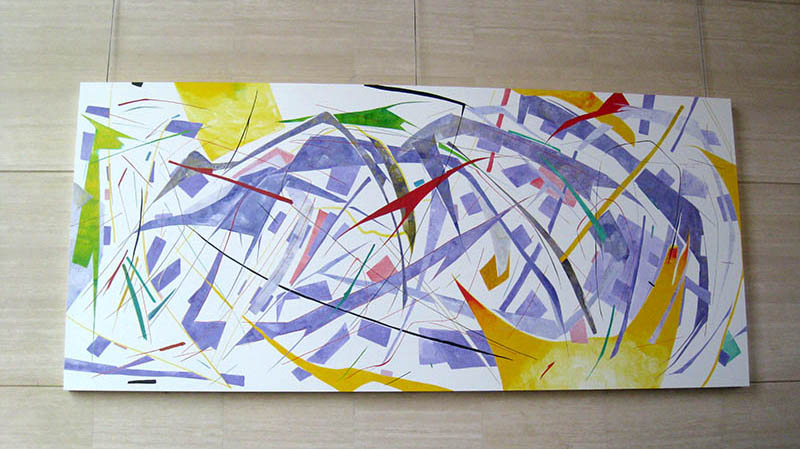
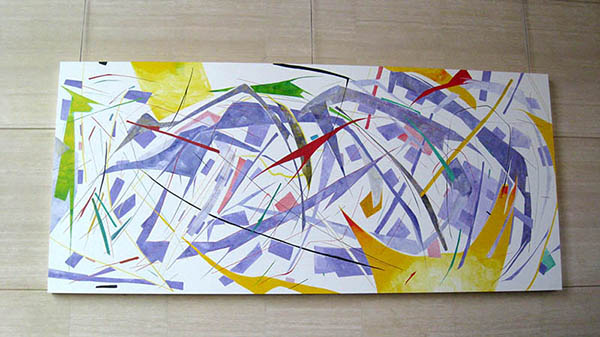
Milestone_completed view-button toggle view

diff --git a/js/main.js b/js/main.js
@@ -2,7 +2,7 @@
 $('.dropdown-work').mouseenter(function(){
 	$('.slidedown').slideToggle('300');
 });
-$('.dropdown-work').mouseleave(function(){
+$('.slidedown').mouseleave(function(){
 	$('.slidedown').slideToggle('200');
 });
 
@@ -19,15 +19,6 @@ function homeClicked() {
 
 //Snap to each pages
 var FAST_SCROLL = 600
-
-//$('.work-selection li').click(slideDownWorkClicked);
-//function slideDownWorkClicked() {
-//	event.preventDefault();
-//	console.log('slideDownWorkClicked');
-//	var targetId = $(this).data('target-id');
-//	var targetY = $(targetId).offset().top;
-//	$('body').animate({scrollTop: targetY}, FAST_SCROLL);
-//}
 
 //snap to Sixty-six Days from top nav menu//
 $('#sixtysix').click(sixtysixClicked);
@@ -75,17 +66,24 @@ function viewButtonClicked () {
 	event.preventDefault();
 	console.log('viewButtonClicked this:' + $(this).data('target-id'));
 	var targetId = $(this).data('target-id');
+	var targetDiv = $(this).closest('.container')
 	$(this).hide();  //Hide the button that was just clicked
-	$('.view-toggle').slideUp('fast');  //Slide all the other .view-toggles up
+//	$('.view-toggle').slideUp('fast');  //Slide all the other .view-toggles up
+	$(targetDiv).siblings('.container').hide();
 	$(targetId).slideDown('fast');  //Slide the current target id down.
-	$('#first-dot').trigger('click')
+	$('#first-dot').trigger('click');
+	$('body').animate({scrollTop: 0}, 600);
+	return false;
 }
 
 $('.close-mark').click(closeMarkClicked);
 function closeMarkClicked () {
 	event.preventDefault();
+	var targetDiv = $(this).closest('.container')
 	$('.view-toggle').slideUp('fast');
 	$('.view-button').show();
+	var targetDiv = $(this).closest('.container')
+	$(targetDiv).siblings('.container').show();
 	var targetId = $(this).closest('.container')
 	var targetY = $(targetId).offset().top;
 	$('body').animate({scrollTop: targetY}, 900); 

diff --git a/index.html b/index.html
@@ -12,7 +12,7 @@
 	<div class="landing-page container">
 		<h1 class="slogan">Some Brave Dreams</h1>
 		<nav class="top-nav">
-			<a href="waselrosa.html"><img id="logo" src="img/LOGO-IN-WHITE.png"></a>
+			<a href="index.html"><img id="logo" src="img/LOGO-IN-WHITE.png"></a>
 			<ul>
 				<li class="dropdown-work"><a href="#work-drop">work</a></li>
 				<li id="mystory"><a href="#">my story</a></li>
@@ -56,7 +56,7 @@
 					<a id="first-dot" data-target-src-a="img/painting01.jpg" data-target-src-b="img/painting01b.jpg" href="#"><i class="fa fa-circle-o"></i></a>
 					<a data-target-src-a="img/painting02a.jpg" data-target-src-b="img/painting02b.jpg" href="#"><i class="fa fa-circle-o"></i></a>
 					<a data-target-src-a="img/painting03b.jpg" data-target-src-b="img/painting03d.jpg" href="#"><i class="fa fa-circle-o"></i></a>
-					<a data-target-src-a="img/LeftAllAlone.jpg" data-target-src-b="img/painting04b.jpg" href="#"><i class="fa fa-circle-o"></i></a>
+					<a data-target-src-a="img/LeftAllAloneA.jpg" data-target-src-b="img/painting04b.jpg" href="#"><i class="fa fa-circle-o"></i></a>
 					<a data-target-src-a="img/painting05a.jpg" data-target-src-b="img/painting05b.jpg" href="#"><i class="fa fa-circle-o"></i></a>
 				</nav>
 				<!--<ul data-target-src-c="painting-titles">
@@ -69,7 +69,6 @@
 				<div class="paintings-slide">
 					<img id="paintings-slide-a">
 					<img id="paintings-slide-b">
-					<div id="paintings-slide-c"></div>
 				</div>
 				<!--<div id="painting-title">First Baby  |  Oil on Wood  |  15'75" x 7'87" x 33"</div>-->
 			</div>

diff --git a/css/style.css b/css/style.css
@@ -189,7 +189,7 @@ h3 {
 .paintings-slide {
 	position: relative;
 	width: 100%;
-	height: 1100px;
+	height: 880px;
 	overflow: hidden;
 }
 #paintings-slide-a {
@@ -197,15 +197,14 @@ h3 {
 	top: 0px;
 	left:0px;
 	padding-top: 60px;
-	padding-left: 240px;
+	padding-left: 340px;
 }
-
 #paintings-slide-b {
 	position: absolute;
 	top: 100px;
 	left:0px;
-	padding-top: 500px;
-	padding-left: 240px;
+	padding-top: 360px;
+	padding-left: 340px;
 }
 nav.slide-trigger  {
 	height: 50px;
